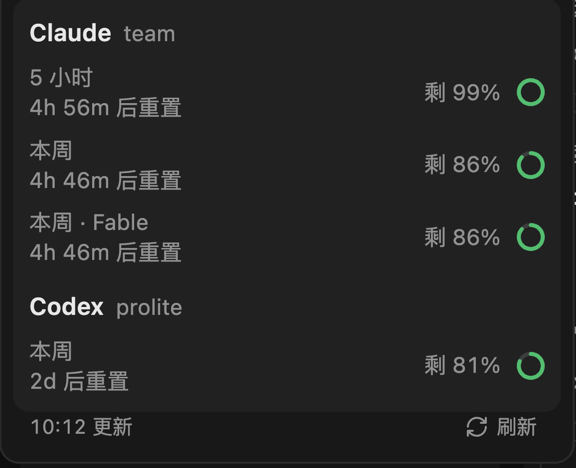
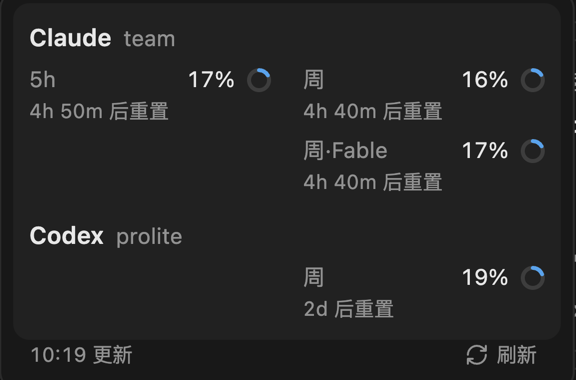
usage-meter 1.1.1: percent used, two to a row when expanded
Back to percent used, the ring filled by it in the theme colour (amber
from 70%, red from 90%). Expanded, the 5-hour window and the week sit
side by side with the reset countdown under each; one row per window
made the list too long.

diff --git a/usage-meter/index.tsx b/usage-meter/index.tsx
@@ -2,8 +2,8 @@
 // The Claude Code / Codex quotas at the bottom of the sidebar: one row per account, always in sight, without typing
 // /usage (which goes into the conversation). Collapsed it shows the two that matter (the 5-hour window and the week;
 // a per-model weekly quota at 0% steps aside); click for every quota and when it resets.
-// Each quota reads as what is left plus a ring of it (green, amber from 70% used, red from 90%), the way agents' own
-// usage popovers show it: "how much can I still use" is the question, not "how much is gone".
+// Each quota is its percent used and a ring filled by it; expanded, the 5-hour window and the week sit side by side
+// with the reset countdown under each, so the list stays short.
 // Asked every 3 minutes while the window is visible; the backend caches, so several windows ask only once.
 
 const POLL = 3 * 60_000;
@@ -40,33 +40,46 @@ export default defineAddon({
       return { list, loading, refresh: () => load(true) };
     }
 
-    /** How much is left, as a ring: the arc is what remains, coloured by how much is used (ok / warn ≥70 / bad ≥90). */
+    const tone = (pct: number) => (pct >= 90 ? "stroke-bad" : pct >= 70 ? "stroke-warn" : "stroke-brand");
+
+    /** A ring filled with how much of the quota is used (brand, amber from 70%, red from 90%). */
     function Ring({ used, size }: { used: number; size: number }) {
       const sw = 2;
       const r = (size - sw) / 2;
       const c = 2 * Math.PI * r;
-      const rest = Math.min(100, Math.max(0, 100 - used));
-      const color = used >= 90 ? "stroke-bad" : used >= 70 ? "stroke-warn" : "stroke-ok";
+      const v = Math.min(100, Math.max(0, used));
       return (
         <svg width={size} height={size} viewBox={`0 0 ${size} ${size}`} fill="none" className="shrink-0">
           <circle cx={size / 2} cy={size / 2} r={r} strokeWidth={sw} className="stroke-muted-foreground/25" />
-          {rest > 0 && (
+          {v > 0 && (
             <circle
               cx={size / 2}
               cy={size / 2}
               r={r}
               strokeWidth={sw}
               strokeLinecap="round"
-              strokeDasharray={`${(c * Math.max(3, rest)) / 100} ${c}`}
+              strokeDasharray={`${(c * Math.max(3, v)) / 100} ${c}`}
               transform={`rotate(-90 ${size / 2} ${size / 2})`}
-              className={color}
+              className={tone(v)}
             />
           )}
         </svg>
       );
     }
 
-    const left = (used: number) => `剩 ${Math.round(Math.max(0, 100 - used))}%`;
+    const pct = (used: number) => `${Math.round(used)}%`;
+
+    /** Expanded, the quotas go two to a row: the 5-hour window left, the week right, each extra one (a per-model
+     * week) on a row of its own in its period's column. */
+    function columns(limits: UsageLimit[]) {
+      const isShort = (l: UsageLimit) => (l.windowMins ?? 0) <= 24 * 60;
+      const shorts = limits.filter(isShort);
+      const longs = limits.filter((l) => !isShort(l));
+      const out: (UsageLimit | null)[] = [shorts.shift() ?? null, longs.shift() ?? null];
+      for (const l of shorts) out.push(l, null);
+      for (const l of longs) out.push(null, l);
+      return out;
+    }
 
     // "5 小时" → "5h", "本周" → "周": two have to fit on one collapsed row
     const short = (label: string) =>
@@ -136,21 +149,26 @@ export default defineAddon({
                           </span>
                         )}
                       </div>
-                      {limits.map((l) => (
-                        // Like agents' own usage popovers: name and when it resets on the left, what's left and a ring on the right
-                        <div
-                          key={l.kind + l.label}
-                          className="mt-1.5 flex items-center gap-2 text-[11px]"
-                          title={`${l.label} 用了 ${Math.round(l.percent)}%${l.resetsAt ? ` · ${when(l.resetsAt)}` : ""}`}
-                        >
-                          <div className="min-w-0 flex-1 leading-snug text-muted-foreground">
-                            <div className="truncate">{l.label}</div>
-                            {!!l.resetsAt && <div className="truncate tabular-nums">{resetIn(l.resetsAt, now)}</div>}
-                          </div>
-                          <span className="shrink-0 text-muted-foreground tabular-nums">{left(l.percent)}</span>
-                          <Ring used={l.percent} size={14} />
-                        </div>
-                      ))}
+                      <div className="mt-1 grid grid-cols-2 gap-x-4 gap-y-1 text-[11px]">
+                        {columns(limits).map((l, i) =>
+                          l ? (
+                            <div
+                              key={l.kind + l.label}
+                              className="min-w-0"
+                              title={`${l.label} 用了 ${pct(l.percent)}${l.resetsAt ? ` · ${when(l.resetsAt)}` : ""}`}
+                            >
+                              <div className="flex items-center gap-1.5">
+                                <span className="min-w-0 truncate text-muted-foreground">{short(l.label)}</span>
+                                <span className="ml-auto shrink-0 tabular-nums">{pct(l.percent)}</span>
+                                <Ring used={l.percent} size={12} />
+                              </div>
+                              {!!l.resetsAt && <div className="truncate text-[10px] text-muted-foreground tabular-nums">{resetIn(l.resetsAt, now)}</div>}
+                            </div>
+                          ) : (
+                            <span key={i} />
+                          ),
+                        )}
+                      </div>
                     </>
                   ) : (
                     <div className="flex items-center gap-2 text-[11px]">
@@ -167,7 +185,7 @@ export default defineAddon({
                           title={`${l.label} 用了 ${Math.round(l.percent)}%${l.resetsAt ? ` · ${resetIn(l.resetsAt, now)}` : ""}`}
                         >
                           <span className="shrink-0 text-muted-foreground">{short(l.label)}</span>
-                          <span className="min-w-0 truncate tabular-nums">{left(l.percent)}</span>
+                          <span className="min-w-0 truncate tabular-nums">{pct(l.percent)}</span>
                           <Ring used={l.percent} size={12} />
                         </span>
                       ))}

diff --git a/usage-meter/README.md b/usage-meter/README.md
@@ -1,8 +1,8 @@
 # 额度条
 
-侧栏底部常驻 Claude Code 和 Codex 的套餐额度：收起时每家一行，显示 5 小时窗口和本周还剩多少；点一下展开，能看到全部额度（含按模型的周额度）和各自多久后重置。
+侧栏底部常驻 Claude Code 和 Codex 的套餐额度：收起时每家一行，显示 5 小时窗口和本周用了多少；点一下展开，能看到全部额度（含按模型的周额度）和各自多久后重置。
 
-每个额度写的是还剩多少，旁边一个圈画的也是剩下的部分：用了 70% 以下绿色，70% 起变黄，90% 起变红。鼠标停上去看用了多少和重置的具体时间。
+每个额度写的是用了多少，旁边一个圈按它填满：70% 以下是主题色，70% 起变黄，90% 起变红。展开后 5 小时和本周左右并排，下面是多久后重置；鼠标停上去看重置的具体时间。
 
 ![额度条](screenshot.png)
 
